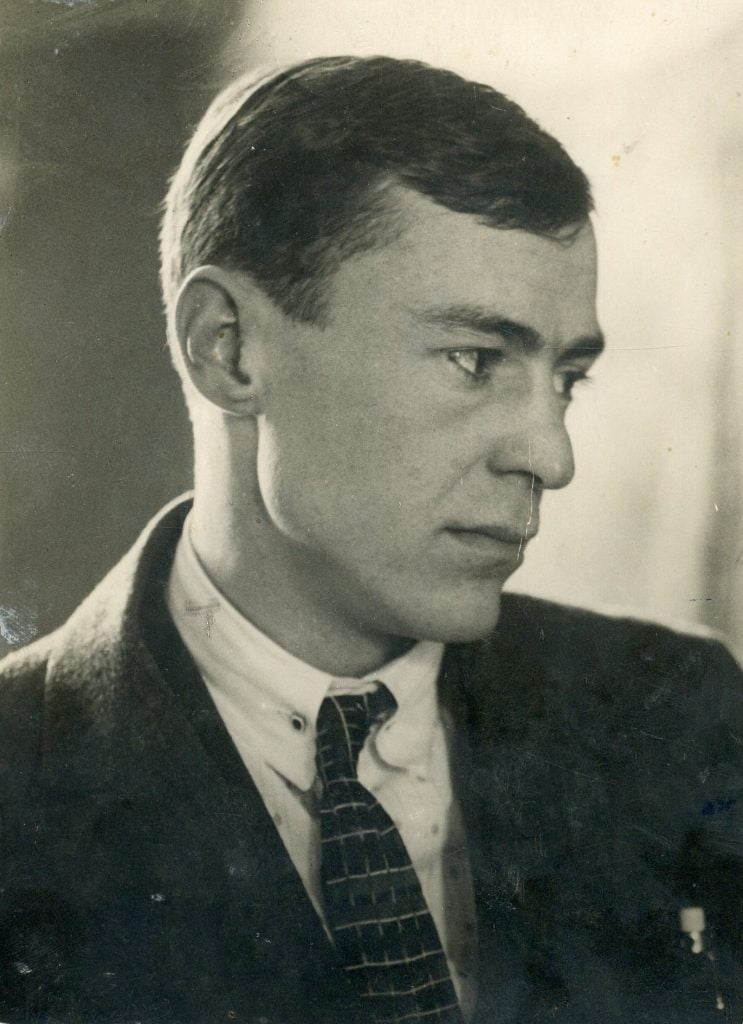
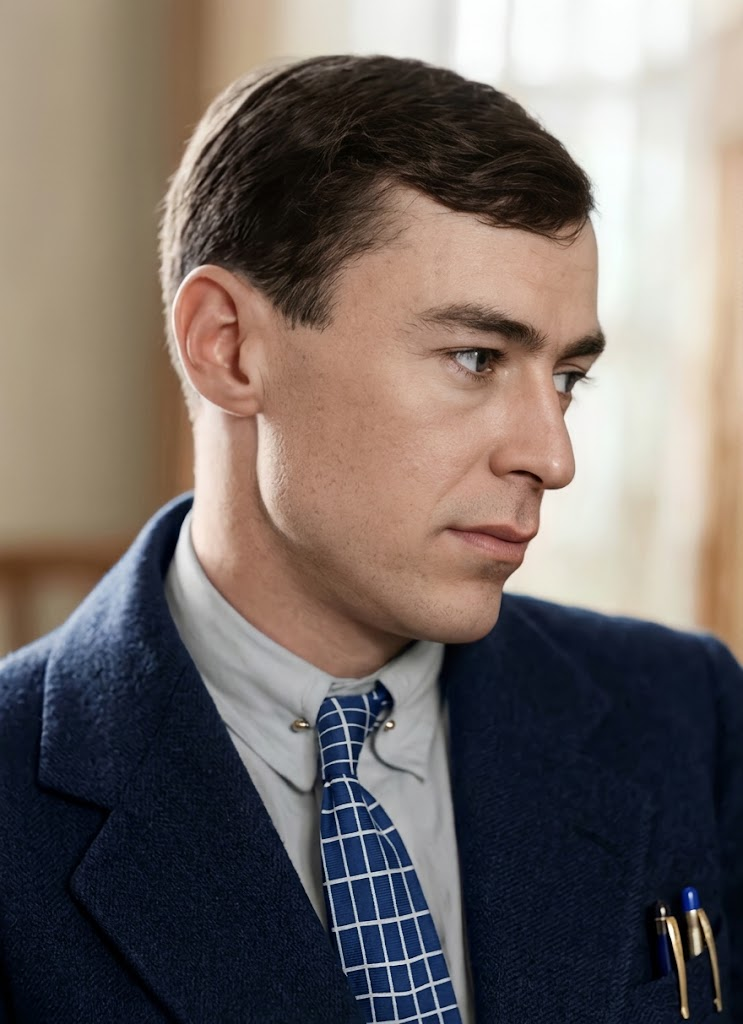
add kulish and pidmohulniy

diff --git a/src/content/people/uk/mykola-kulish.md b/src/content/people/uk/mykola-kulish.md
@@ -18,16 +18,20 @@ places:
   - { name: "Сандармох", lat: 62.861, lon: 34.728, note: "місце розстрілу, 1937" }
 image:
   src: ./images/mykola-kulish.jpg
-  alt: "Микола Куліш, 1928 рік"
-  author: "О. Кореневич"
+  alt: "Микола Куліш у темному піджаку, фото 1920-х років, кольоризоване ШІ"
+  author: "Невідомий автор"
   license: "Public domain"
-  source_url: "https://commons.wikimedia.org/wiki/File:Mykola_Kulish_(1928).jpg"
+  ai_edit: colorized
+  source_url: "https://commons.wikimedia.org/wiki/File:Mykola_Kulish.jpg"
 key_accomplishments:
   - "П'єса «97» (1924) - перший великий успіх; її поставив Гнат Юра в Харківському театрі ім. І. Франка"
   - "Трилогія «Народний Малахій», «Патетична соната», «Вічний бунт»"
   - "Комедія «Мина Мазайло» (1929) - сатира на те, як сприймали українізацію"
   - "Вистави «Березоля» Леся Курбаса: «Народний Малахій», «Мина Мазайло», «Маклена Граса»"
   - "Президент літературної організації ВАПЛІТЕ (1926–1928)"
+quotes:
+  - text: "На московському кумачі України самостійної не вишити!"
+    source: "З творів, за Українським інститутом національної пам'яті"
 sources:
   - title: "Енциклопедія історії України - Куліш Микола Гурович (автор - Г. П. Герасимова)"
     url: "https://resource.history.org.ua/cgi-bin/eiu/history.exe?I21DBN=EIU&P21DBN=EIU&S21STN=1&S21REF=10&S21FMT=eiu_all&C21COM=S&S21CNR=20&S21P01=0&S21P02=0&S21P03=TRN%3D&S21COLORTERMS=0&S21STR=Kulish_M_G"
@@ -37,7 +41,8 @@ sources:
     url: https://uk.wikipedia.org/wiki/Микола_Куліш
 related: [les-kurbas, mykola-khvylovyi, les-taniuk, mykola-zerov, valerian-pidmohylnyi, myroslav-irchan, pavlo-fylypovych, oleksa-slisarenko, valerian-polishchuk]
 collections: [executed-renaissance]
-status: draft
+status: approved
+published: 2026-10-13T03:14:04Z
 ---
 
 ## Сирота з Чаплинки

diff --git a/docs/QUOTES.md b/docs/QUOTES.md
@@ -451,24 +451,6 @@ A pool of sourced quotes that are not on the site yet (BACKLOG I23). The quotes 
   - url: https://osvita.ua/school/literature/k/80834/list-2.html
   - confidence: high (primary text; the cut drops the list of abolished ranks: "і почують крик її, і встане Слав'янщина, і не позостанеться ні царя…". Its pan-Slavic framing may need context; quote 1 is cleaner)
 
-### mykola-kulish — Микола Куліш
-- quote 1:
-  - uk: "Нічого важчого нема, як написати буквар."
-  - en: "There is nothing harder than writing a primer." (translation: ours)
-  - original_language: uk
-  - source_uk: "Лист, весна 1926"
-  - source_en: "Letter, spring 1926"
-  - url: https://www.ukrinform.ua/rubric-culture/2831076-mikola-kulis-1-hvora-mria-potomlenogo-ludstva.html (Ukrinform, 7 Dec 2019)
-  - confidence: medium (Ukrinform quotes the letter without naming its edition. A line about his work: he compiled a primer and reader as a school official. The full sentence lists genres, including "записку про самогубство", so use only this closing line. The letter was written to Olimpiada Korneieva-Maslova; leave out who the recipient was, because the letters were private)
-- quote 2:
-  - uk: "Пора вклонитися літературі, бо залишилося не більш як сім-десять років."
-  - en: "It's time to bow to literature, because there are no more than seven to ten years left." (translation: ours)
-  - original_language: uk
-  - source_uk: "Слова кінця 1924 року"
-  - source_en: "Words from late 1924"
-  - url: https://www.ukrinform.ua/rubric-culture/2831076-mikola-kulis-1-hvora-mria-potomlenogo-ludstva.html
-  - confidence: medium (one outlet, no primary source; reads as a grim premonition, since he was arrested ten years later. Optional)
-
 ### mykola-leontovych — Микола Леонтович
 - none found. Only diary entries about his work and secondhand paraphrases ("народна пісня — вияв душі народу").
 - still none found (retry: the ESU article has no words of his own; a web search found no verifiable letter or diary line)

diff --git a/src/content/people/uk/valerian-pidmohylnyi.md b/src/content/people/uk/valerian-pidmohylnyi.md
@@ -17,9 +17,10 @@ places:
   - { name: "Сандармох", lat: 62.861, lon: 34.728, note: "місце розстрілу, 1937" }
 image:
   src: ./images/valerian-pidmohylnyi.jpg
-  alt: "Валер'ян Підмогильний, 1932 рік"
+  alt: "Валер'ян Підмогильний у профіль, у піджаку й краватці, фото 1932 року, кольоризоване ШІ"
   author: "Невідомий автор"
   license: "Public domain"
+  ai_edit: colorized
   source_url: "https://commons.wikimedia.org/wiki/File:Pidmohylnyi.jpg"
 key_accomplishments:
   - "Роман «Місто» (1928) - про зустріч села й міста в добу непу"
@@ -27,6 +28,9 @@ key_accomplishments:
   - "Переклади французької прози: Бальзак, Дідро, Анатоль Франс, Мопассан, Стендаль, Меріме"
   - "Словник «Фразеологія ділової мови» (1926) - разом з Євгеном Плужником"
   - "Оповідання про голод 1921–1923 років («Собака», «Проблема хліба», «Син»)"
+quotes:
+  - text: "Щасливі цільні натури, що в нещастях тільки загартовуються і з невдачі здобувають нову впертість до боротьби."
+    source: "Роман «Невеличка драма», 1930"
 sources:
   - title: "Енциклопедія історії України - Підмогильний Валер'ян Петрович (автор - С. І. Лущій)"
     url: "https://resource.history.org.ua/cgi-bin/eiu/history.exe?I21DBN=EIU&P21DBN=EIU&S21STN=1&S21REF=10&S21FMT=eiu_all&C21COM=S&S21CNR=20&S21P01=0&S21P02=0&S21P03=TRN%3D&S21COLORTERMS=0&S21STR=Pidmohylnyj_V"
@@ -36,7 +40,8 @@ sources:
     url: https://uk.wikipedia.org/wiki/Валер'ян_Підмогильний
 related: [mykola-kulish, mykola-zerov, les-kurbas, yevhen-pluzhnyk, hryhorii-kosynka, valerian-polishchuk]
 collections: [executed-renaissance]
-status: draft
+status: approved
+published: 2026-10-13T03:20:22Z
 ---
 
 ## Хлопець із Чаплів

diff --git a/src/content/people/uk/oleh-antonov.md b/src/content/people/uk/oleh-antonov.md
@@ -29,11 +29,11 @@ key_accomplishments:
   - "Ан-24, Ан-26, Ан-72 і Ан-124 «Руслан», його останній проєкт"
   - "Головний, а з 1962 року генеральний конструктор київського КБ (1952–1984)"
 videos:
-  - youtube: Xy4P6uaWHtE
-    title: "Ан-225 «Мрія» приземляється в Гостомелі"
-    source: "Денис & Артем"
-    date: 2021-08-23
-    duration: "0:30"
+  - youtube: WSZIWT93ghM
+    title: "Ан-225 «Мрія» над Хрещатиком у День Незалежності, 2021"
+    source: "Факти ICTV"
+    date: 2021-08-24
+    duration: "0:50"
     section: 5
 quotes:
   - text: "Є в світі три прекрасні сестри: віра в свої сили, надія на перемогу та любов до життя."

diff --git a/src/content/people/en/valerian-pidmohylnyi.md b/src/content/people/en/valerian-pidmohylnyi.md
@@ -11,7 +11,10 @@ key_accomplishments:
   - "The dictionary Phraseology of Business Language (1926), with Yevhen Pluzhnyk"
   - "Stories about the famine of 1921–1923 (“The Dog”, “The Problem of Bread”, “The Son”)"
 birthplace_name: "Chapli"
-image_alt: "Valerian Pidmohylnyi, 1932"
+image_alt: "Valerian Pidmohylnyi in profile, in a jacket and tie, a 1932 photo colorized with AI"
+quotes:
+  - text: "Happy are the whole natures that misfortune only tempers, and that draw from failure a new stubbornness to fight."
+    source: "The novel A Little Drama, 1930"
 ---
 
 ## The boy from Chapli

diff --git a/src/content/people/en/mykola-kulish.md b/src/content/people/en/mykola-kulish.md
@@ -11,7 +11,10 @@ key_accomplishments:
   - "Les Kurbas’s Berezil productions: The People’s Malakhii, Myna Mazailo and Maklena Grasa"
   - "President of the literary organization VAPLITE (1926–1928)"
 birthplace_name: "Chaplynka"
-image_alt: "Mykola Kulish, 1928"
+image_alt: "Mykola Kulish in a dark jacket, a 1920s photo colorized with AI"
+quotes:
+  - text: "You cannot embroider an independent Ukraine on Moscow’s red calico!"
+    source: "From his works, as quoted by the Ukrainian Institute of National Memory"
 ---
 
 ## The orphan from Chaplynka

diff --git a/src/content/people/en/oleh-antonov.md b/src/content/people/en/oleh-antonov.md
@@ -13,8 +13,8 @@ key_accomplishments:
 birthplace_name: "Troitsa, Moscow Governorate"
 image_alt: "Oleh Antonov in a light jacket, a portrait photo"
 videos:
-  - title: "The An-225 Mriya landing at Hostomel"
-    source: "Denys & Artem"
+  - title: "The An-225 Mriya over Khreshchatyk on Independence Day, 2021"
+    source: "Fakty ICTV"
 quotes:
   - text: "There are three beautiful sisters in the world: faith in your own strength, hope of victory and love of life."
     source: "As quoted by ArmyInform, February 2021"
